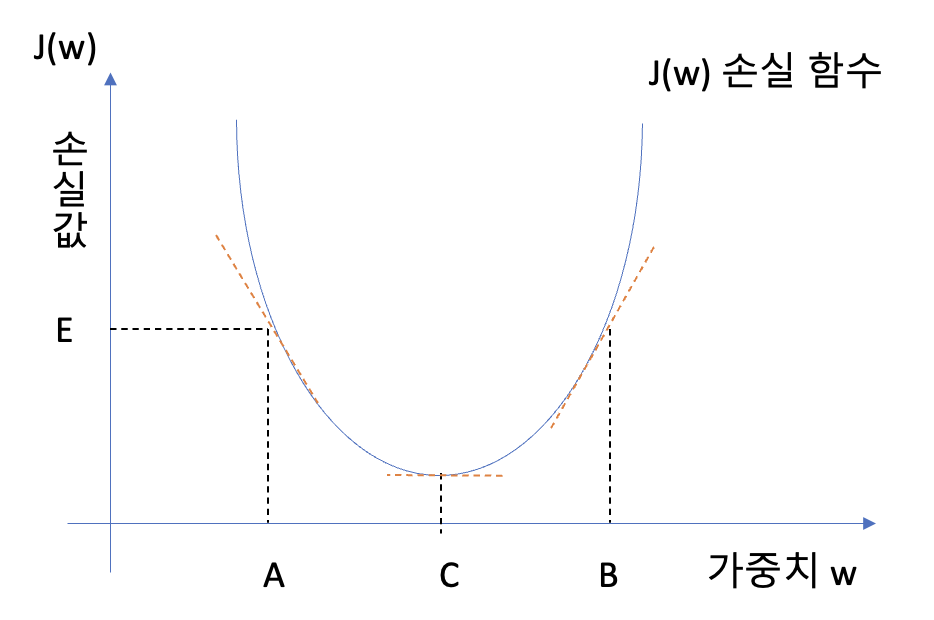
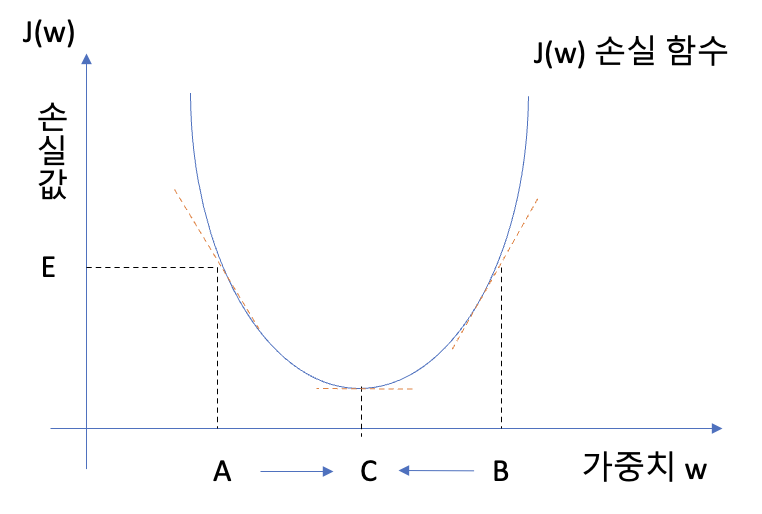
tensorflow class 3

diff --git a/_posts/2022-01-07-tensorflow_class_01_03.md b/_posts/2022-01-07-tensorflow_class_01_03.md
@@ -23,17 +23,21 @@ search: true
 ######## 인공 신경망 구현 ########
 
 # 케라스 DNN 구현
-model = Sequential()
-input = X_train.shape[1] # (354, 12) 에서 1번째는 12이다
+
+model = Sequential() # Keras Sequential 모듈 활용
+
+input = X_train.shape[1] # (354, 12) 에서 1번째는 12이다 # < 입력층: 뉴런 12개 >
+
+# Keras Dense 모듈 활용
 # 은닉층 1 Dense는 은닉층에 대한 뉴런 200개랑 입력층의 12개 뉴런을 곱해서 2400개 그리고 은닉층 뉴런 200개 더해서 시냅스 총 2600개
 model.add(Dense(200,
                 input_dim=input,
-                activation='relu'))
+                activation='relu')) # < 은닉층 1: 뉴런 200개, relu 활성화 >
 # 은닉층 2추가
 model.add(Dense(1000,
-                activation='relu'))
+                activation='relu')) # <은닉층 2: 뉴런 1000개, relu 활성화 >
 # 최종 출력층 추가
-model.add(Dense(1))
+model.add(Dense(1)) # < 출력층: 뉴런 1개, 활성화 없음 >
 
 print('\nDNN 요약')
 model.summary()
@@ -65,6 +69,129 @@ model.summary()
 
 ![tensor_class_01_03_01](/images/2022-01-07-tensorflow_class_01_03/tensor_class_01_03_01.png){: width="100%" height="100%"}{: .center}
 
+## 평균 제곱 오차 이론  
+- Mean Square Error (MSE)  
+-- **MSE = (예측값 - 정답)제곱의 평균**  
+-- 완벽한 예측의 경우 MSE는 0  
+-- 오차가 커지면 MSE가 커짐  
+-- 제곱오차들의 평균: 큰 오차들에 더 민감  
+
+```python
+######## 인공 신경망 학습 ########
+
+# sgd : 함수의 기울기(경사)를 구하여 낮은 쪽으로 이동
+# mse : (예측값 - 정답)제곱의 평균
+# 최적화 함수와 손실 함수 지정 (인공신경망 학습 환경 설정)
+# Keras compile 모듈 활용
+model.compile(optimizer='sgd',
+              loss='mse')
+
+print('\nDNN 학습 시작')
+begin = time()
+
+# epochs 학습 시 몇 번 반복할지
+# batch_size 한꺼번에 몇 개를 처리할지
+# verbose 학습 내용의 결과를 매번 출력할지 0은 출력하지 않음, 1은 출력함
+# Keras fit 모듈 활용 (인공신경망 학습)
+model.fit(X_train,
+          Y_train,
+          epochs=MY_EPOCH,
+          batch_size=MY_BATCH,
+          verbose=1
+          )
+end = time()
+print('총 학습 시간: {:.1f}초'.format(end-begin))
+```  
+
+>  
+결과  
+```
+    DNN 학습 시작
+    Epoch 1/500
+    6/6 [==============================] - 0s 8ms/step - loss: 0.8163
+    Epoch 2/500
+    6/6 [==============================] - 0s 5ms/step - loss: 0.5689
+    Epoch 3/500
+    6/6 [==============================] - 0s 5ms/step - loss: 0.4617
+    ~~~~~~~~~~~~~ 생 략 ~~~~~~~~~~~~~~~~~~~~~~~~~~~~~~~~~~~~~~~~~~~~~~
+    Epoch 8/500
+    6/6 [==============================] - 0s 5ms/step - loss: 0.2358
+    Epoch 9/500
+    6/6 [==============================] - 0s 5ms/step - loss: 0.2185
+    Epoch 10/500
+    6/6 [==============================] - 0s 5ms/step - loss: 0.2043
+    Epoch 11/500
+    6/6 [==============================] - 0s 5ms/step - loss: 0.1938
+    Epoch 12/500
+    6/6 [==============================] - 0s 5ms/step - loss: 0.1861
+    Epoch 13/500
+    6/6 [==============================] - 0s 4ms/step - loss: 0.1773
+    ~~~~~~~~~~~~~ 생 략 ~~~~~~~~~~~~~~~~~~~~~~~~~~~~~~~~~~~~~~~~~~~~~~
+    Epoch 495/500
+    6/6 [==============================] - 0s 5ms/step - loss: 0.0420
+    Epoch 496/500
+    6/6 [==============================] - 0s 5ms/step - loss: 0.0418
+    Epoch 497/500
+    6/6 [==============================] - 0s 5ms/step - loss: 0.0417
+    Epoch 498/500
+    6/6 [==============================] - 0s 4ms/step - loss: 0.0414
+    Epoch 499/500
+    6/6 [==============================] - 0s 4ms/step - loss: 0.0416
+    Epoch 500/500
+    6/6 [==============================] - 0s 5ms/step - loss: 0.0413
+    총 학습 시간: 15.0초
+```  
+
+## Evaluate 이론 / Predict 이론  
+- Keras evaluate 함수  
+-- 학습된 DNN을 **평가**할 때 사용  
+-- 학습용 데이터 입력과 출력을 동시에 사용  
+-- X_test와 Y_test 사용  
+
+- Keras predict 함수  
+-- 학습된 DNN으로 **추측**할 때 사용  
+-- 새로운 데이터를 사용  
+-- 새로운 데이터 부재 시 : 학습용 데이터 입력만 사용  
+-- X_test 사용  
+
+## Seaborn Regplot이론  
+- 데이터 **시각화**에 많이 사용  
+-- 산포도와 선형 모델을 동시에 구현  
+
+```python
+######## 인공 신경망 평가 및 활용 ########
+
+# 신경망 평가 및 손실값 계산
+# Keras evaluate 모듈 활용
+loss = model.evaluate(X_test,
+                      Y_test,
+                      verbose=1)
+# 152개 문제를 한 번만 풀었다
+print('\nDNN 평균 제곱 오차 (MSE): {:.2f}'.format(loss))
+```  
+
+>  
+결과  
+```
+    5/5 [==============================] - 0s 4ms/step - loss: 0.0958
+    DNN 평균 제곱 오차 (MSE): 0.10
+```
+
+```python
+# 신경망 활용 및 산포도 출력
+
+# Keras predict 모듈 활용
+pred = model.predict(X_test)
+
+# Seaborn package를 이용하여 산포도 분석
+sns.regplot(x=Y_test, y=pred) # x축은 정답, y축은 예측값
+
+plt.xlabel("Actual Values")
+plt.ylabel("Predicted Values")
+plt.show()
+```   
+
+![tensor_class_01_03_02](/images/2022-01-07-tensorflow_class_01_03/tensor_class_01_03_02.png){: width="100%" height="100%"}{: .center}
 
 
 임성규 교수의 TensorFlow로 배우는 머신러닝 알고리즘 강의를 들으며 정리하였습니다.  
